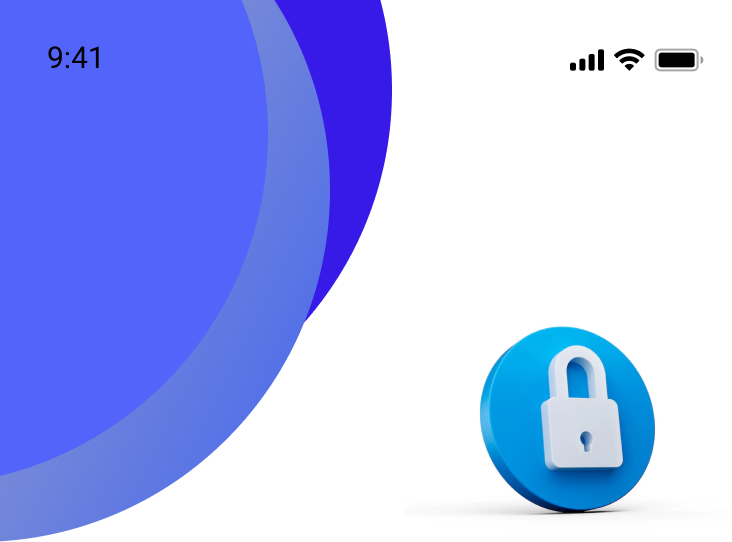
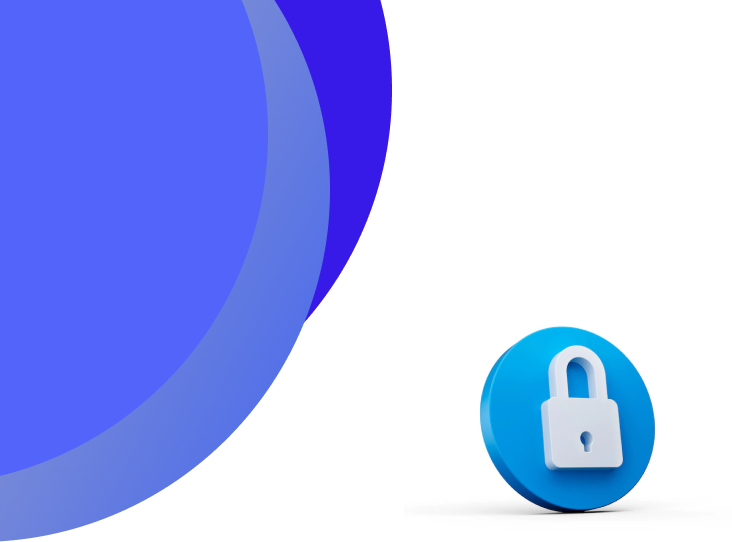
Begun change_password screen

Changed region(s): [[0.7814, 0.0886, 0.9617, 0.1476], [0.0601, 0.0886, 0.1503, 0.1181]]

diff --git a/lib/main.dart b/lib/main.dart
@@ -1,5 +1,6 @@
 import 'package:flutter/material.dart';
 import 'package:flutter_screenutil/flutter_screenutil.dart';
+import 'package:one_go_app/views/change_password_screen.dart';
 import 'package:one_go_app/views/custom_bottom_sheet.dart';
 import 'package:one_go_app/views/home.dart';
 import 'package:one_go_app/views/no_shuttle.dart';
@@ -25,7 +26,7 @@ class MyApp extends StatelessWidget {
       designSize: const Size(414, 896),
       builder: (_) => MaterialApp(
         debugShowCheckedModeBanner: false,
-        initialRoute: Home.id,
+        initialRoute: ChangePasswordScreen.id,
         routes: {
           WelcomePage.id: (context) => const WelcomePage(),
           SignInPage.id: (context) => const SignInPage(),
@@ -36,6 +37,7 @@ class MyApp extends StatelessWidget {
           SeatBookedSuccess.id: (context) => const SeatBookedSuccess(),
           RideTrackingPage.id: (context) => const RideTrackingPage(),
           GoogleMapsBottomSheet.id: (context) => const GoogleMapsBottomSheet(),
+          ChangePasswordScreen.id: (context) => const ChangePasswordScreen(),
         },
       ),
     );

diff --git a/lib/views/change_password_screen.dart b/lib/views/change_password_screen.dart
@@ -1,0 +1,31 @@
+import 'package:flutter/material.dart';
+import 'package:flutter_screenutil/flutter_screenutil.dart';
+import 'package:one_go_app/custom_widgets/constants.dart';
+import 'package:one_go_app/generated/assets.dart';
+
+class ChangePasswordScreen extends StatelessWidget {
+  static const String id = 'Change password screen';
+  const ChangePasswordScreen({Key? key}) : super(key: key);
+
+  @override
+  Widget build(BuildContext context) {
+    final height = MediaQuery.of(context).size.height;
+    return Scaffold(
+      body: SafeArea(
+        child: Column(
+          children: [
+            Image.asset(Assets.figmaPngsChangePassword),
+            Expanded(
+                flex: 2,
+                child: Column(
+                  children: [
+                    addVerticalSpacing(10),
+                    Text("Change your password", style: boldBlackStyle.copyWith(fontSize: 30.sp),),
+                  ],
+                )),
+          ],
+        ),
+      ),
+    );
+  }
+}

diff --git a/lib/views/ride_tracking_page.dart b/lib/views/ride_tracking_page.dart
@@ -35,7 +35,6 @@ class _RideTrackingPageState extends State<RideTrackingPage> {
   @override
   Widget build(BuildContext context) {
     return Scaffold(
-     // bottomSheet: const GoogleMapsBottomSheet(),
         backgroundColor: whiteColor,
         body: Stack(
           children: [
@@ -48,7 +47,7 @@ class _RideTrackingPageState extends State<RideTrackingPage> {
                     initialCameraPosition: CameraPosition(
                         target: LatLng(currentLocation!.latitude!,
                             currentLocation!.longitude!),
-                        zoom: 19.5),
+                        zoom: 16.5),
                     zoomControlsEnabled: true,
                     mapType: MapType.normal,
                     markers: {
